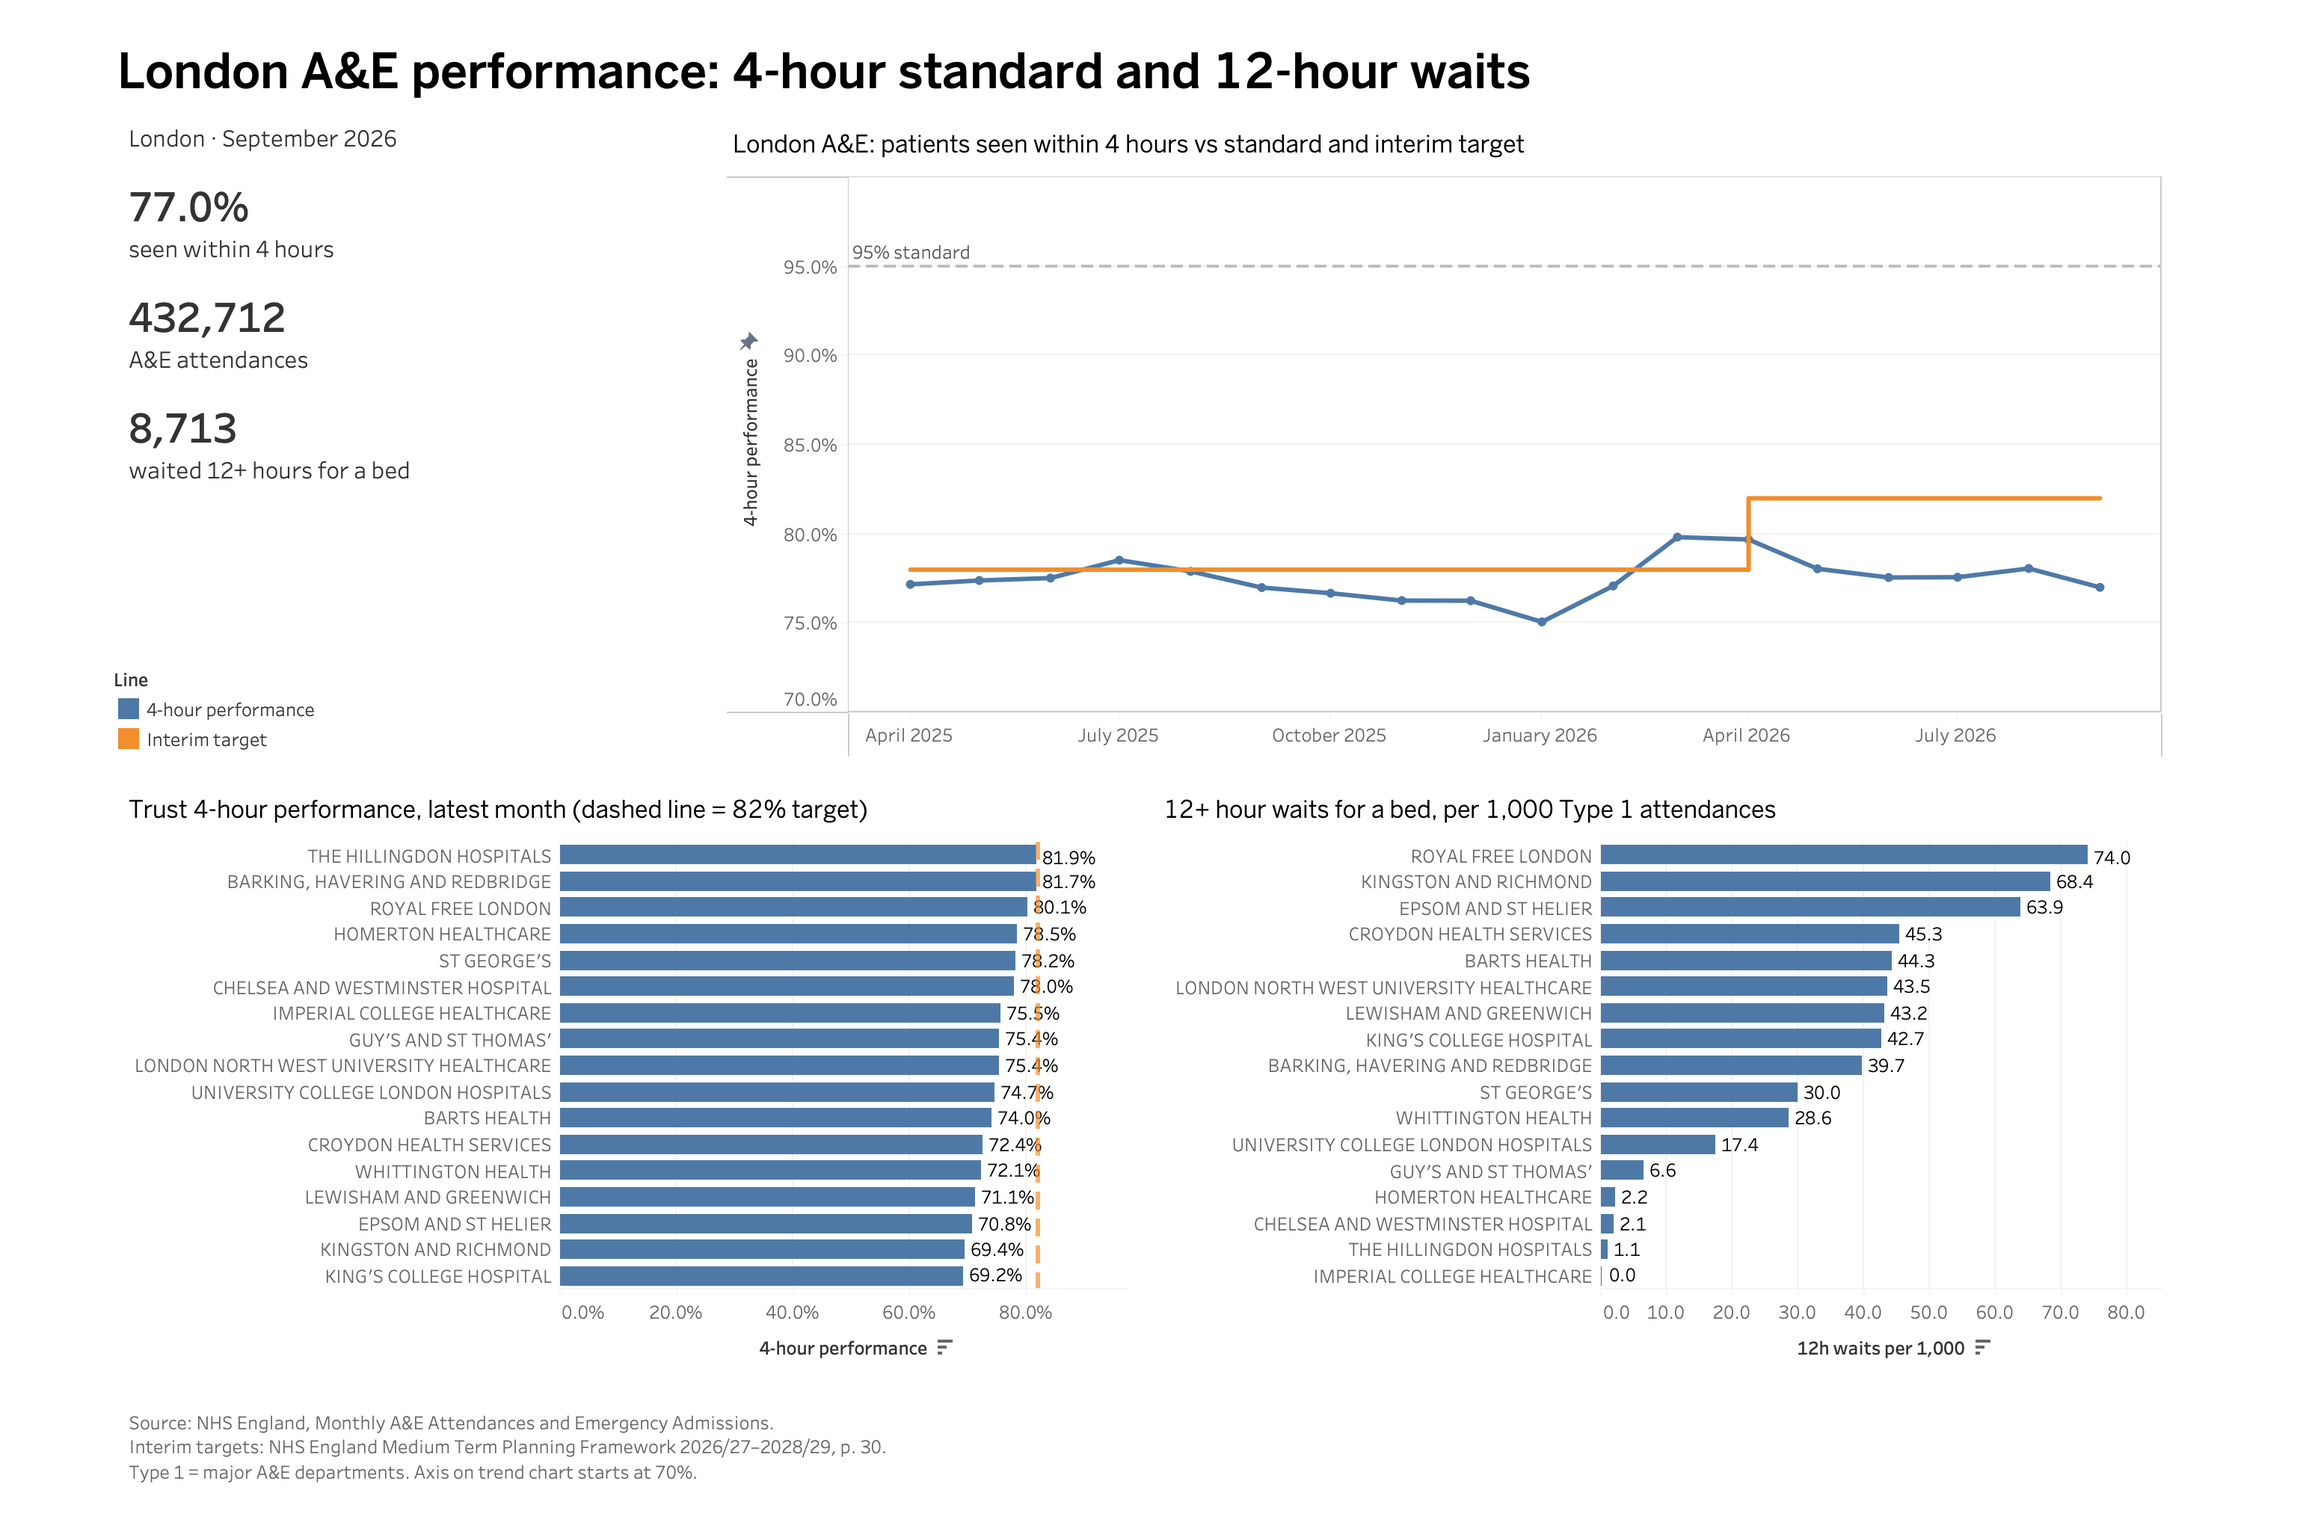
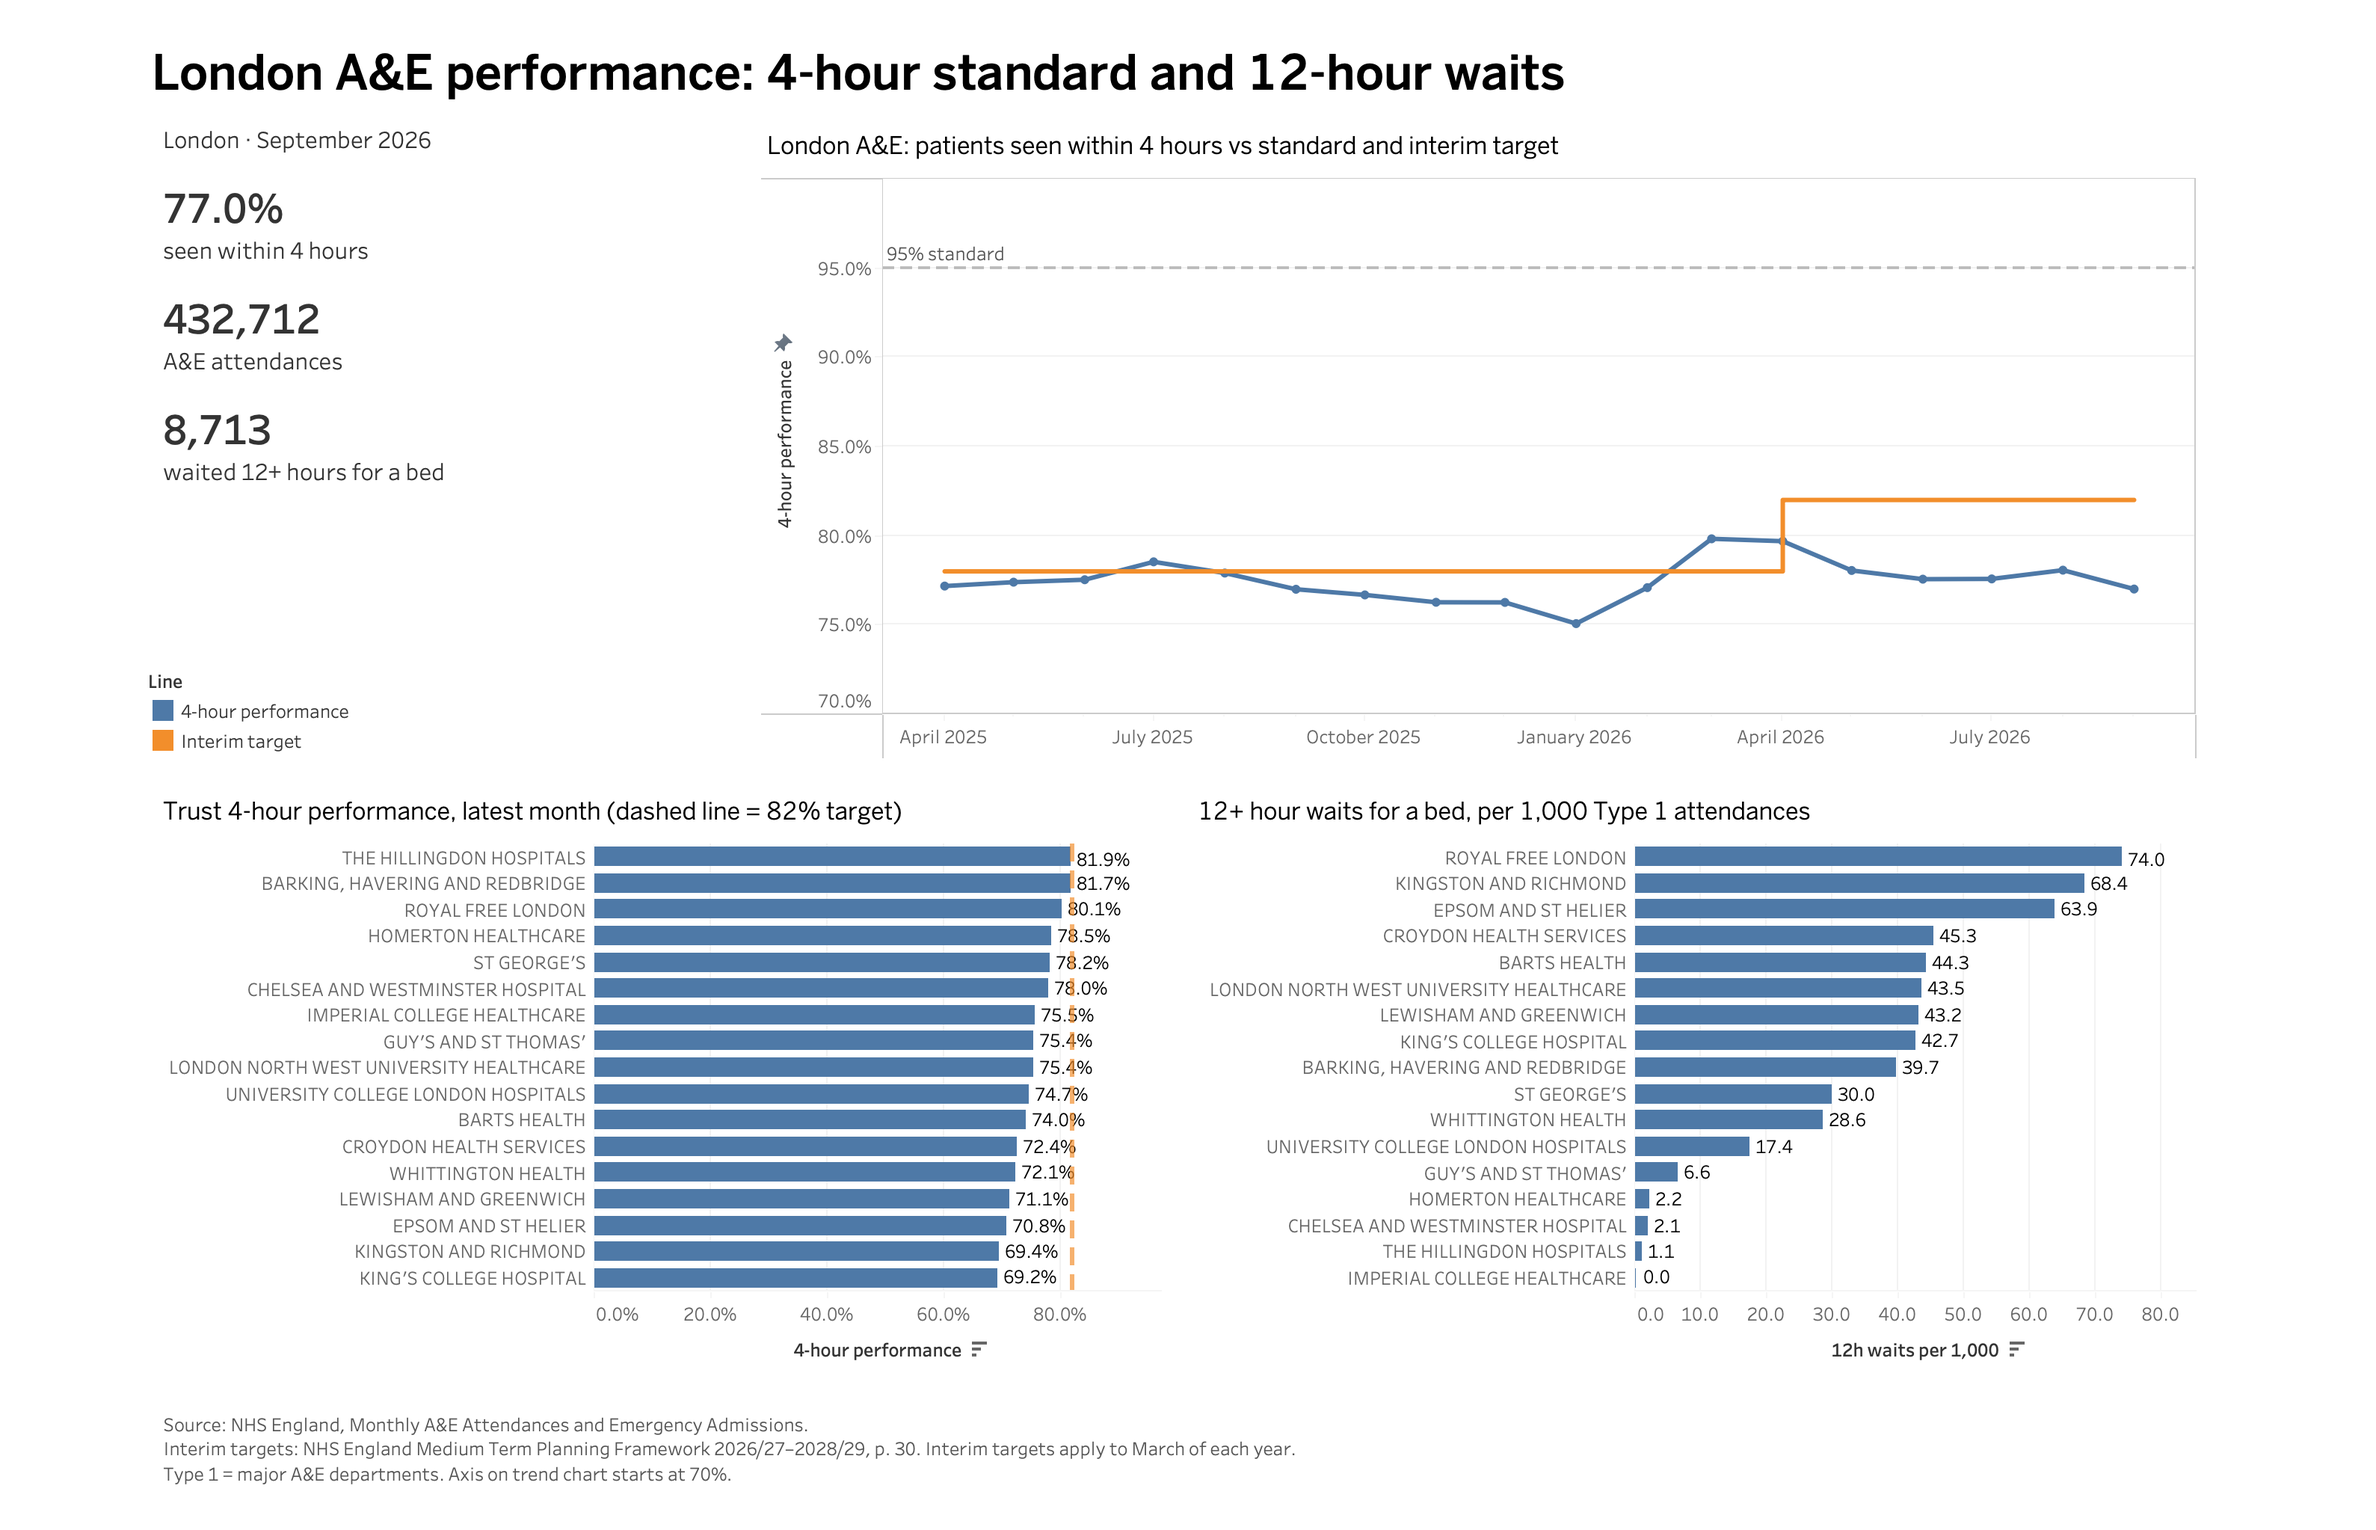
Add README with findings, method, limitations and update steps

diff --git a/README.md b/README.md
@@ -1,1 +1,161 @@
-# NHS London A&E Dashboard
+# London A&E Performance Dashboard
+
+How well are London's NHS trusts meeting the 4-hour A&E standard, and how has this changed since April 2025?
+
+This project uses NHS England's monthly A&E data to track London's 4-hour performance against the 95% standard and the interim targets, compare trusts in the latest month, and look at 12-hour waits for a bed. The same figures are built in Excel, PostgreSQL and Tableau and reconciled against NHS England's published totals.
+
+![London A&E dashboard](images/dashboard.png)
+
+**Interactive dashboard:** [Tableau Public](LINK-TO-ADD)
+
+**Data coverage:** April 2025 – September 2026 (18 months): the full 2025/26 NHS financial year (April–March) and the first half of 2026/27
+
+---
+
+## Key findings (September 2026)
+
+1. **London has not come close to the 95% standard in any month.** Monthly 4-hour performance ranged from 75.1% (January 2026) to 79.8% (March 2026).
+2. **London met the 2025/26 interim target, England did not.** The target was at least 78% in March 2026. London reached 79.8% that month; England as a whole reached 77.1%. Across the rest of 2025/26, London was above 78% only in July 2025 (78.5%).
+3. **London is not yet on track for the 2026/27 target.** The target is 82% by March 2027. Between April and September 2026 London stayed between 77% and 80%; in September 2026 it was 77.0% (England: 74.4%).
+4. **None of the 17 London trusts with a Type 1 (major) A&E reached 82% in September 2026.** The highest-performing trust was The Hillingdon Hospitals (81.9%) and the lowest-performing was King's College Hospital (69.2%), a gap of 12.7 percentage points.
+5. **The two measures tell different stories.** Royal Free London ranks 3rd on 4-hour performance (80.1%) but has the highest rate of 12-hour waits for a bed: 74 per 1,000 Type 1 attendances. Kingston and Richmond is among the lowest on both measures.
+6. **Adjusting for trust size changes the ranking.** By count, Barts Health had the 2nd-highest number of 12-hour waits; per 1,000 Type 1 attendances it drops to 5th.
+
+These findings describe what the data shows. They do not explain why performance differs between trusts or months. For example, March 2026 was the highest month for both London and England; this is the month the 2025/26 target was measured, but the data alone cannot show whether the target, the end of winter or other factors caused the peak.
+
+---
+
+## Data
+
+| | |
+|---|---|
+| Source | NHS England, *A&E Attendances and Emergency Admissions* (monthly provider-level CSV files) |
+| Coverage | April 2025 – September 2026 |
+| Grain | One row per provider per month |
+| Rows | 3,551 raw rows → 3,533 after removing England total rows |
+| Region | London = `Parent Org` "NHS ENGLAND LONDON" |
+
+Column definitions, A&E types and how to read each column are in the [data dictionary](docs/data-dictionary.md).
+
+### Measures
+
+| Measure | Definition |
+|---|---|
+| Total attendances | Type 1 + Type 2 + Other A&E attendances, including booked appointments |
+| 4-hour performance | (Total attendances − attendances over 4 hours) ÷ Total attendances |
+| 12-hour waits per 1,000 | Patients waiting 12+ hours from decision to admit ÷ Type 1 attendances × 1,000 |
+| Type 1 trust | A trust with at least one Type 1 (major) A&E attendance in the month |
+
+Percentages are calculated from totals (weighted), not as averages of trust percentages.
+
+### Targets shown on the dashboard
+
+| Target | Value | Source |
+|---|---|---|
+| NHS Constitution standard | 95% within 4 hours | NHS England Statistical Commentary, September 2026, p. 2 |
+| Interim target 2025/26 | 78% in March 2026 ("a minimum of 78% of patients seen within 4 hours in March 2026") | NHS England, *2025/26 priorities and operational planning guidance*, "Our national priorities for 2025/26" |
+| Interim target 2026/27 | 82% by March 2027 ("every trust to maintain or improve to 82%") | NHS England, *Medium Term Planning Framework 2026/27 to 2028/29*, p. 30 |
+
+Interim targets apply to March, the last month of the NHS financial year. The dashboard shows them as a step line from April to March to give a reference for progress during the year; the formal check is the March figure. From 2028/29 the target changes to an average for the whole year (85%).
+
+There is no numeric target for 12-hour waits in 2026/27 (the requirement is improvement on the previous year), so no target line is shown on that chart.
+
+---
+
+## How it works
+
+| Step | Tool | File |
+|---|---|---|
+| 1. Combine monthly files | Bash | `scripts/combine_months.sh` |
+| 2. Single-month analysis and reconciliation | Excel | `analysis/september_2026.xlsx` |
+| 3. All-month cleaning, pivot and trend | Excel Power Query | `analysis/london_trend.xlsx` |
+| 4. Load raw data | PostgreSQL | `sql/01_load.sql` |
+| 5. Clean data (view) | PostgreSQL | `sql/02_clean.sql` |
+| 6. Answer five business questions | PostgreSQL | `sql/03_analysis.sql` |
+| 7. Data quality checks | PostgreSQL | `sql/04_data_quality.sql` |
+| 8. Export clean data | DataGrip | `data/processed/ae_clean.csv` |
+| 9. Dashboard | Tableau Public | `tableau/london_ae_dashboard.twb` |
+
+The cleaning was built twice, in Power Query and in SQL, and both versions give the same result. The September 2026 London figure (77.0%) is identical in Excel, PostgreSQL and Tableau.
+
+---
+
+## Data preparation and quality checks
+
+- **Reconciliation:** England totals for September 2026 match NHS England's published figures exactly (2,444,743 attendances; 626,751 over 4 hours). This confirmed that booked appointments are included in the 4-hour measure.
+- **Inconsistent total rows:** Each monthly file contains an England total row, but it is not flagged the same way in every file. Most use `Period = "TOTAL"`, two use `"Total"`, February 2026 flags it only in `Org Code`, and one file has a hidden extra character after "TOTAL". A single filter missed some of them; check formulas (Excel `COUNTIF`, SQL `LENGTH`) found them, and all 18 are removed.
+- **Text cleaning:** Trailing spaces removed from region names; the text period (e.g. `MSitAE-SEPTEMBER-2026`) converted to a date.
+- **Checks in SQL:** no duplicate trust-month rows, no missing totals, 190–200 providers per month (24–25 in London).
+
+Checks are kept in `analysis/london_trend.xlsx` (Checks sheet) and `sql/02_clean.sql` / `sql/04_data_quality.sql`, and are re-run after every update.
+
+---
+
+## Limitations
+
+- Trust-level 4-hour performance combines Type 1 and other A&E types, so trusts with more urgent treatment centre activity can show higher percentages.
+- The gap between London and England may partly reflect a different mix of A&E types, not only better performance.
+- 12-hour wait counts depend on trust size; a rate per 1,000 Type 1 attendances is shown alongside.
+- Imperial College Healthcare reports 0 waits of 12+ hours in September 2026; this may reflect reporting rather than performance.
+- The number of London providers changed from 25 to 24 in April 2026; trust comparisons over time should take organisational changes into account.
+- Providers with fewer than about 200 attendances or 40 emergency admissions a month are not included in the published data.
+- The trend chart's vertical axis starts at 70% to make month-to-month changes visible. Bar charts start at 0%.
+
+---
+
+## How to run
+
+Requirements: Excel (Microsoft 365), PostgreSQL 14+, an SQL client (DataGrip was used), Tableau Public (Desktop Public Edition).
+
+1. Combine the monthly files:
+   ```bash
+   bash scripts/combine_months.sh
+   ```
+2. Start PostgreSQL (Homebrew installation):
+   ```bash
+   brew services start postgresql@14
+   ```
+3. Create a database (e.g. `nhs_ae`). In `sql/01_load.sql`, update the file path in the `COPY` command to your local copy of `data/processed/ae_all_months.csv`.
+4. Run `01_load.sql`, `02_clean.sql`, `04_data_quality.sql`, then `03_analysis.sql`.
+5. Export the `ae_clean` view to `data/processed/ae_clean.csv` (with a header row).
+6. Open `tableau/london_ae_dashboard.twb` in Tableau Public.
+
+## How to update with a new month
+
+1. Download the new month's CSV from NHS England and save it as `data/raw/ae_YYYY_MM.csv`.
+2. Run `bash scripts/combine_months.sh`.
+3. Excel: open `analysis/london_trend.xlsx` → **Data → Refresh All** → check the Checks sheet (one more month, 0 total rows, England total matches NHS England).
+4. SQL: re-run `01_load.sql` → `02_clean.sql` → `04_data_quality.sql` → `03_analysis.sql`. No dates are hard-coded; "latest month" is found with `MAX(month)`.
+5. Re-export `ae_clean.csv` and refresh the Tableau data source. The KPI cards and trust charts move to the new month automatically.
+6. Update **Data coverage** and **Key findings** in this README.
+
+---
+
+## Repository structure
+
+```
+analysis/        Excel workbooks (single month, all months + checks)
+data/raw/        Monthly NHS England CSV files (unchanged)
+data/processed/  Combined and cleaned CSV files
+data/reference/  NHS system mapping file
+docs/            Data dictionary and NHS statistical commentary
+images/          Dashboard screenshot
+scripts/         Bash script to combine monthly files
+sql/             Load, clean, analysis and data quality scripts
+tableau/         Tableau workbook
+```
+
+## Tools
+
+Excel (Power Query, pivot tables, XLOOKUP, FILTER/SORT/TAKE) · PostgreSQL (views, aggregation, subqueries, CASE WHEN) · Tableau Public (calculated fields, dual axis, dashboard) · Bash · Git
+
+## Sources
+
+- NHS England, [A&E Attendances and Emergency Admissions](https://www.england.nhs.uk/statistics/statistical-work-areas/ae-waiting-times-and-activity/), monthly data April 2025 – September 2026.
+- NHS England, Statistical Commentary, September 2026 (copy in `docs/`).
+- NHS England (2025), [2025/26 priorities and operational planning guidance](https://www.england.nhs.uk/long-read/2025-26-priorities-and-operational-planning-guidance/), section "Our national priorities for 2025/26".
+- NHS England (2025), [Medium Term Planning Framework – delivering change together 2026/27 to 2028/29](https://www.england.nhs.uk/publication/medium-term-planning-framework-delivering-change-together-2026-27-to-2028-29/), p. 30.
+
+---
+
+**Author:** Yuzlem (Ozlem) Adala · [GitHub](https://github.com/adaliozlem) · [LinkedIn](LINK-TO-ADD)
